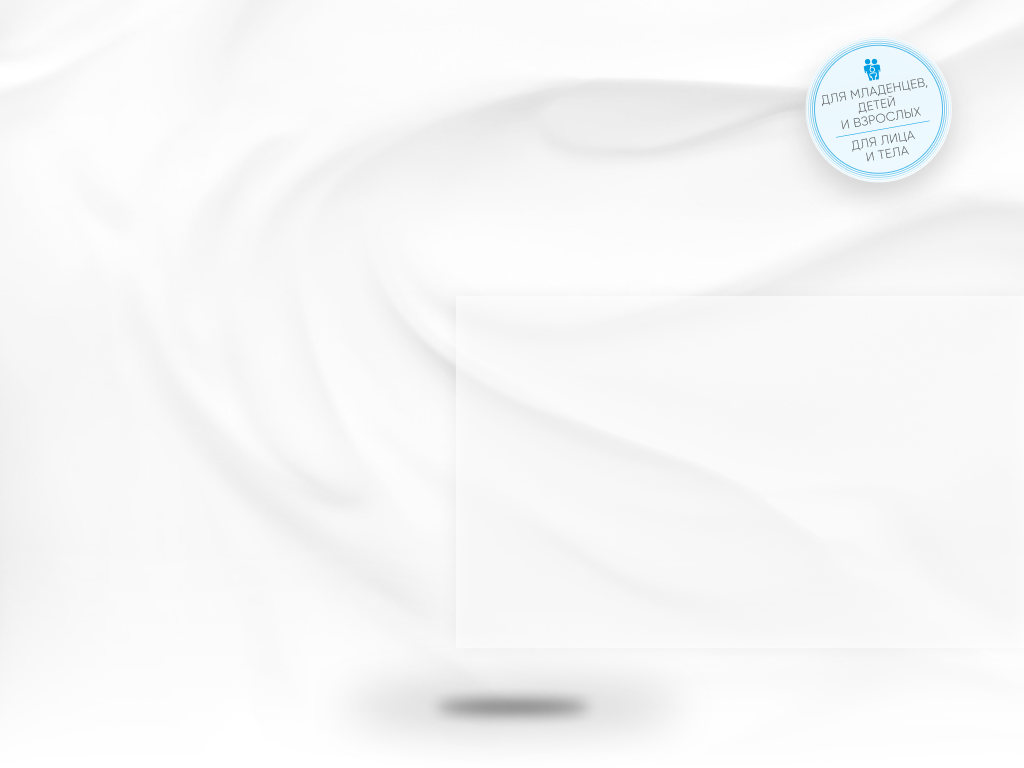
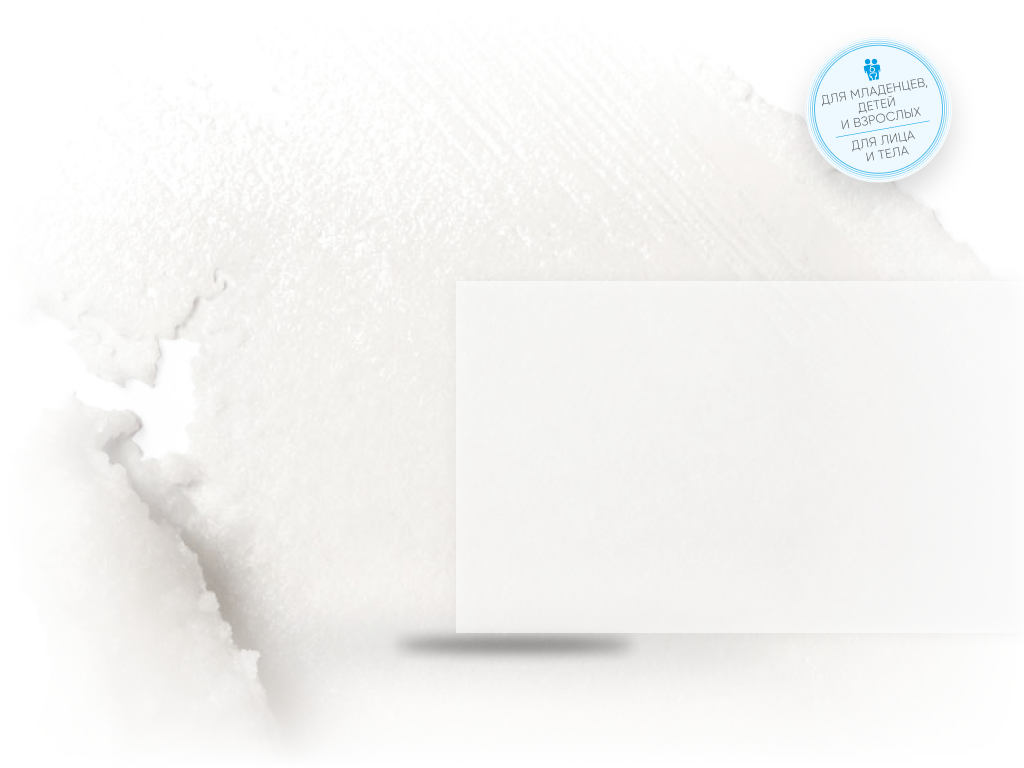
some bg settings

diff --git a/002_lipikar/js/common.js b/002_lipikar/js/common.js
@@ -20,6 +20,22 @@ $(document).ready(function () {
     $('.wrap .common-bg').addClass('hide');
   };
 
+  var changeOne = function() {
+    $('.wrap .common-bg2').removeClass('hide');
+  };
+
+  var removeOne = function() {
+    $('.wrap .common-bg2').addClass('hide');
+  };
+
+  var changeTwo = function() {
+    $('.wrap .common-bg3').removeClass('hide');
+  };
+
+  var removeTwo = function() {
+    $('.wrap .common-bg3').addClass('hide');
+  };
+
   var it1 = 768 / 100;
   var it2;
   var it4 = 1024 / 100;
@@ -110,19 +126,19 @@ $(document).ready(function () {
 
   $('.m_pop3 .o1').click(function() {
     $('.m_pop4').fadeIn();
-    changeBGtoWhite();
+    changeOne();
   });
   $('.m_pop4 .x').click(function() {
     $(this).parent().fadeOut();
-    changeBGtoBlue();
+    removeOne();
   });
   $('.m_pop3 .o2').click(function() {
     $('.m_pop5').fadeIn();
-    changeBGtoWhite();
+    changeTwo();
   });
   $('.m_pop5 .x').click(function() {
     $(this).parent().fadeOut();
-    changeBGtoBlue();
+    removeTwo();
   });
   $('.m_pop3 .o3').click(function() {
     changeBGtoWhite();

diff --git a/007_effaclar/js/common.js b/007_effaclar/js/common.js
@@ -28,6 +28,14 @@ $(document).ready(function () {
     $('.wrap .common-bg2').addClass('hide');
   };
 
+  var changeToOne = function() {
+    $('.wrap .common-bg3').removeClass('hide');
+  };
+
+  var removeOne = function() {
+    $('.wrap .common-bg3').addClass('hide');
+  };
+
   var it1 = 768 / 100;
   var it2;
   var it4 = 1024 / 100;
@@ -150,12 +158,12 @@ $(document).ready(function () {
     changeBGtoBlue();
   });
   $('.m_pop3 .o5').click(function() {
-    changeBGtoWhite();
+    changeToOne();
     $('.m_pop9').fadeIn();
   });
   $('.m_pop9 .x').click(function() {
     $(this).parent().fadeOut();
-    changeBGtoBlue();
+    removeOne()
   });
   $('.m_pop3 .o6').click(function() {
     changeBGtoWhite();

diff --git a/002_lipikar/css/stylev3.css b/002_lipikar/css/stylev3.css
@@ -60,17 +60,34 @@ html {
   transition: all 0.75s;
 }
 
-.wrap .common-bg {
+.wrap .common-bg,
+.wrap .common-bg2,
+.wrap .common-bg3,
+.wrap .common-bg4 {
   position: absolute;
   top: 0;
   left: 0;
   bottom: 0;
   right: 0;
-  background-color: #FFF;
   transition: all 0.75s;
 }
 
-.wrap .common-bg.hide { opacity: 0; }
+.wrap .common-bg {
+  background-color: #FFF;
+}
+
+.wrap .common-bg2 {
+  background-color: #EEEBE5;
+}
+
+.wrap .common-bg3 {
+  background-color: #EFE4C3;
+}
+
+.wrap .common-bg.hide,
+.wrap .common-bg2.hide,
+.wrap .common-bg3.hide,
+.wrap .common-bg4.hide { opacity: 0; }
 
 .wrap .over-wrap {
   position: relative;

diff --git a/007_effaclar/css/stylev3.css b/007_effaclar/css/stylev3.css
@@ -70,7 +70,9 @@ html {
   transition: all 0.75s;
 }
 
-.wrap .common-bg.hide { opacity: 0; }
+.wrap .common-bg.hide,
+.wrap .common-bg2.hide,
+.wrap .common-bg3.hide { opacity: 0; }
 
 .wrap .common-bg2 {
   position: absolute;
@@ -82,7 +84,15 @@ html {
   transition: all 0.75s;
 }
 
-.wrap .common-bg2.hide { opacity: 0; }
+.wrap .common-bg3 {
+  position: absolute;
+  top: 0;
+  left: 0;
+  bottom: 0;
+  right: 0;
+  background: #46B7B7;
+  transition: all 0.75s;
+}
 
 .wrap .over-wrap {
   position: relative;

diff --git a/002_lipikar/index.html b/002_lipikar/index.html
@@ -10,6 +10,8 @@
   <body>
     <div class="wrap">
       <div class="common-bg hide"></div>
+      <div class="common-bg2 hide"></div>
+      <div class="common-bg3 hide"></div>
       <div class="over-wrap">
         <div id="page">
           <nav class="abs main-m">

diff --git a/007_effaclar/index.html b/007_effaclar/index.html
@@ -11,6 +11,7 @@
     <div class="wrap">
       <div class="common-bg hide"></div>
       <div class="common-bg2 hide"></div>
+      <div class="common-bg3 hide"></div>
       <div class="over-wrap">
         <div id="page">
           <nav class="abs main-m">
